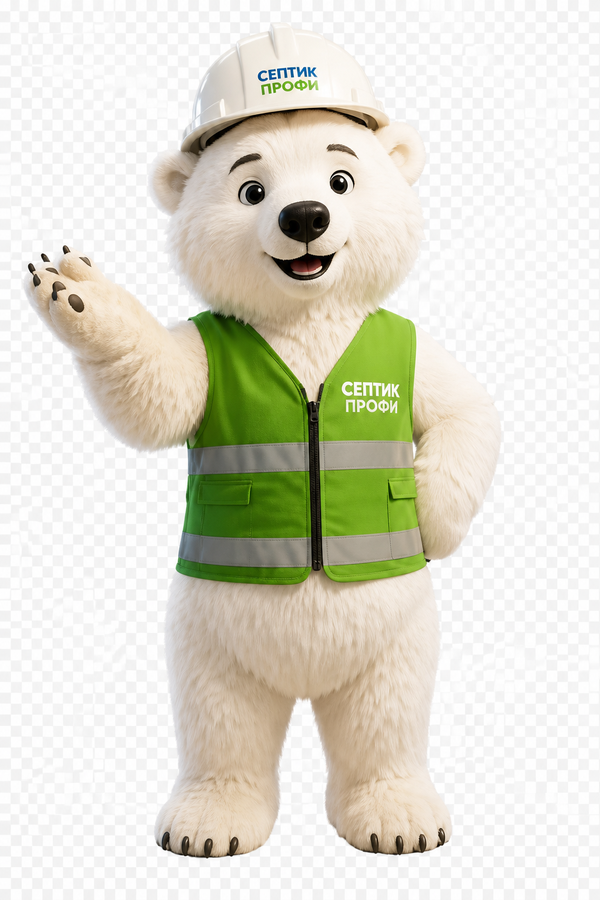
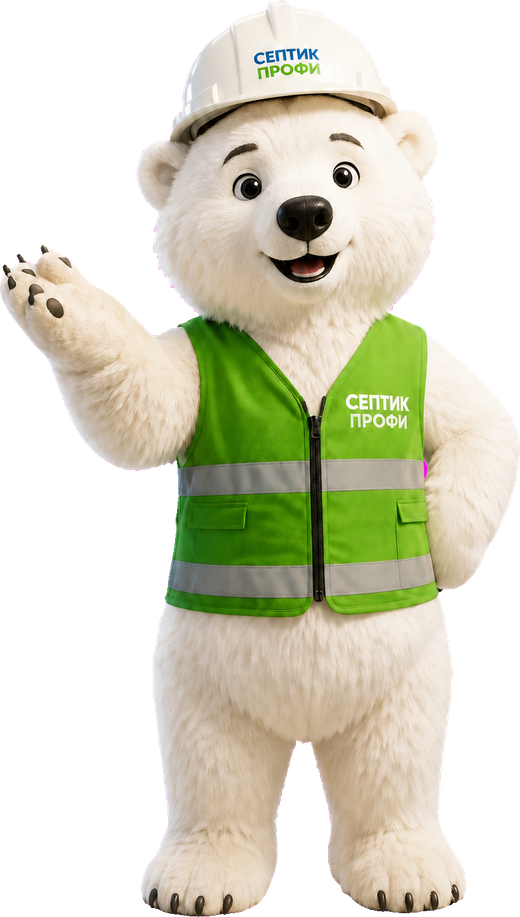
Маскот: чистая вырезка (хромакей), в hero с анимацией, без белой карточки в монтаже

diff --git a/css/styles.css b/css/styles.css
@@ -183,6 +183,23 @@ a:hover { color: var(--green-dark); }
 .hero__slide.is-active { opacity: 1; visibility: visible; z-index: 1; }
 .hero__slide .hero__inner { min-height: 480px; }
 .hero__img--photo { width: 100%; max-width: 460px; border-radius: 20px; box-shadow: 0 24px 48px rgba(0,0,0,.35); }
+/* Маскот в hero — покачивается */
+.hero__mascot {
+  position: absolute; left: 30px; bottom: 34px; width: 150px; z-index: 6;
+  transform-origin: 50% 100%;
+  animation: mascotWave 5s ease-in-out infinite;
+}
+.hero__mascot img { width: 100%; display: block; filter: drop-shadow(0 18px 30px rgba(8, 22, 34, .35)); }
+@keyframes mascotWave {
+  0%, 100% { transform: rotate(-2deg) translateY(0); }
+  25% { transform: rotate(1.5deg) translateY(-7px); }
+  50% { transform: rotate(-1deg) translateY(0); }
+  75% { transform: rotate(2deg) translateY(-7px); }
+}
+@media (prefers-reduced-motion: reduce) {
+  .hero__mascot { animation: none; }
+}
+
 .hero__arrow {
   position: absolute; top: 50%; transform: translateY(-50%); z-index: 5;
   width: 46px; height: 46px; border-radius: 50%;
@@ -330,12 +347,11 @@ a:hover { color: var(--green-dark); }
 .install__includes .btn { display: block; margin: 0 auto; }
 
 /* ---------- Маскот в блоке монтажа ---------- */
-.install__mascot { display: flex; align-items: center; justify-content: center; gap: 28px; margin: 6px 0 46px; }
-.install__mascot-card {
-  background: #fff; border: 1px solid var(--line); border-radius: 22px; padding: 14px;
-  box-shadow: var(--shadow); flex-shrink: 0;
+.install__mascot { display: flex; align-items: center; justify-content: center; gap: 30px; margin: 6px 0 46px; }
+.install__mascot-img {
+  width: 190px; height: auto; display: block; flex-shrink: 0;
+  filter: drop-shadow(0 20px 30px rgba(16, 42, 67, .28));
 }
-.install__mascot-img { width: 200px; height: auto; display: block; border-radius: 14px; }
 .install__mascot-bubble {
   position: relative; max-width: 430px; background: #fff; border: 1px solid var(--line);
   border-radius: 18px; padding: 22px 26px; font-size: 17px; font-weight: 700; color: var(--navy);
@@ -576,6 +592,7 @@ a:hover { color: var(--green-dark); }
   .hero__visual { display: none; }
   .hero__slides, .hero__slide .hero__inner { min-height: 400px; }
   .hero__arrow { display: none; }
+  .hero__mascot { width: 96px; left: 14px; bottom: 16px; }
   .calc__controls { grid-template-columns: 1fr; }
   .contacts__inner { grid-template-columns: 1fr; }
   .finance__inner { flex-direction: column; text-align: center; }

diff --git a/index.html b/index.html
@@ -162,6 +162,10 @@
 
   </div>
 
+  <div class="hero__mascot" aria-hidden="true">
+    <img src="mascot.png" alt="" loading="lazy">
+  </div>
+
   <button class="hero__arrow hero__arrow--prev" id="hero-prev" aria-label="Предыдущий слайд">‹</button>
   <button class="hero__arrow hero__arrow--next" id="hero-next" aria-label="Следующий слайд">›</button>
   <div class="hero__dots" id="hero-dots">
@@ -817,9 +821,7 @@
     </div>
 
     <div class="install__mascot">
-      <div class="install__mascot-card">
-        <img src="mascot.png" alt="Маскот СЕПТИК ПРОФИ — монтажник" class="install__mascot-img" loading="lazy">
-      </div>
+      <img src="mascot.png" alt="Маскот СЕПТИК ПРОФИ — монтажник" class="install__mascot-img" loading="lazy">
       <div class="install__mascot-bubble">Сделаем монтаж за 1 день — без спецтехники и грязи на участке!</div>
     </div>
 
